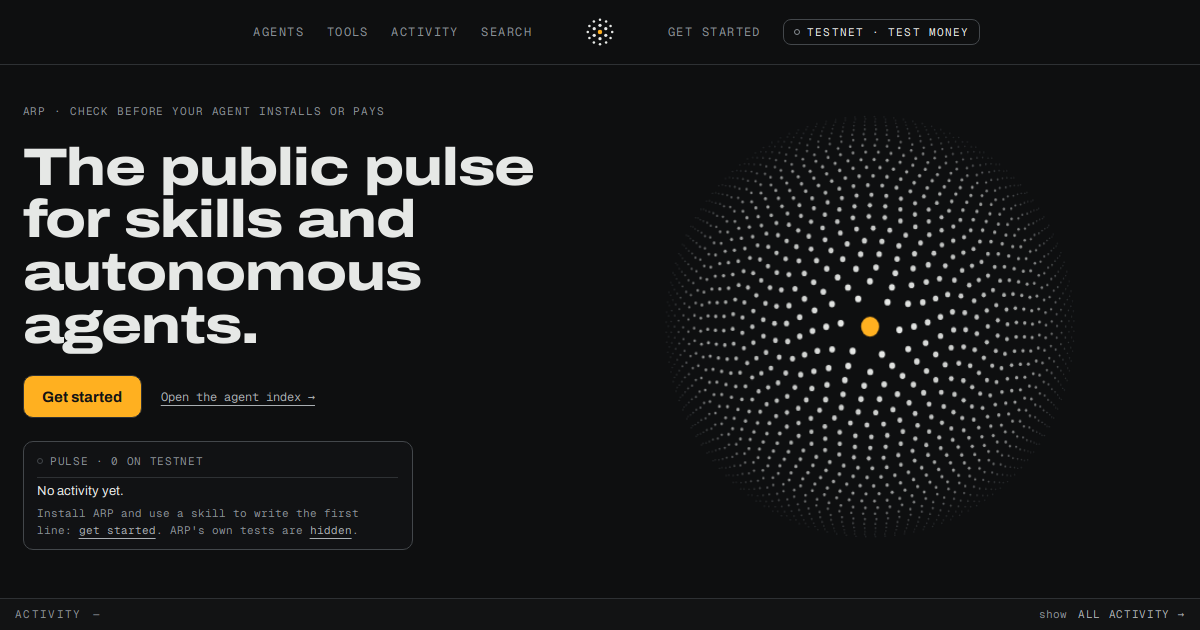
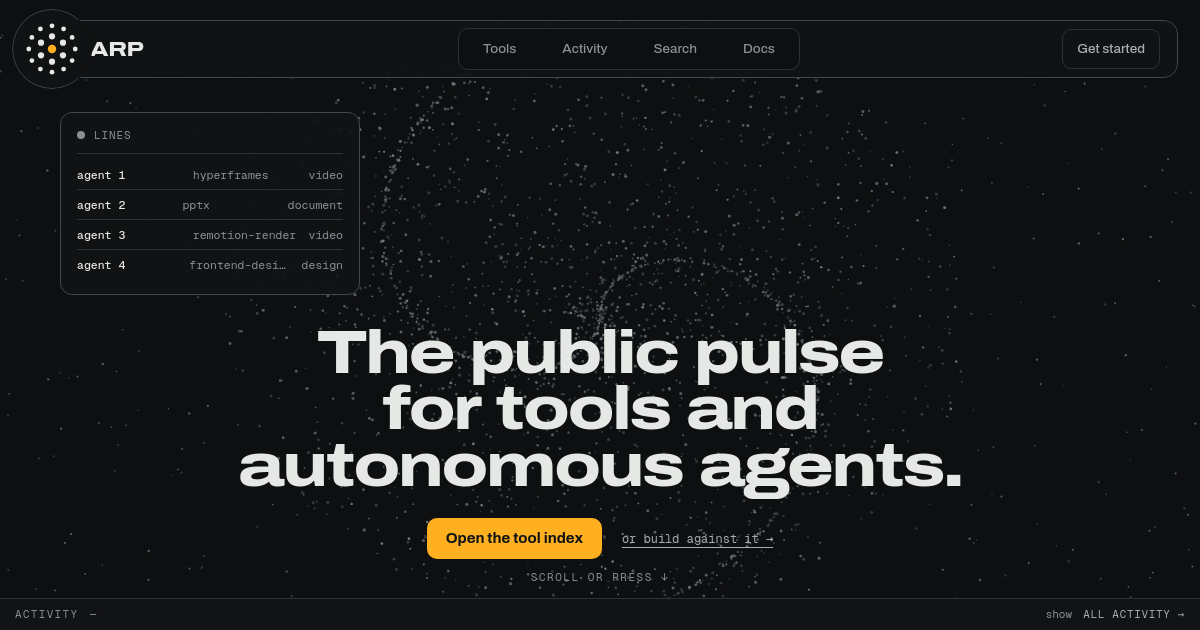
chore(task-145): the share card is the current landing, captured by a script
og.png was a screenshot of the landing of 2026-11-09, never redone, so a
shared link showed a site that no longer existed. scripts/build/og-image.ts
captures the built landing's top at 1200x630 over the DevTools Protocol,
as landing-fit.ts does, with no new dependency.

diff --git a/scripts/build/og-image.ts b/scripts/build/og-image.ts
@@ -1,0 +1,96 @@
+/** The share card, `apps/web/public/og.png`: the landing's top, 1200×630, from the built site (task 145).
+ *
+ *      cd apps/web && bun run build && bunx vite preview --port 4173 &
+ *      bun run scripts/build/og-image.ts [url]
+ *
+ *  `og:image` and `twitter:image` name this file (`apps/web/index.html`). It was a screenshot taken once on
+ *  2026-11-09 and nothing redid it, so a shared link kept showing a landing that no longer existed. This
+ *  script redoes it the same way every time.
+ *
+ *  It drives Chromium over the DevTools Protocol with `fetch` and a `WebSocket`, as
+ *  `scripts/measure/landing-fit.ts` does, so it adds no dependency. The browser is `ARP_CHROME`, else
+ *  Playwright's cached Chromium under `/root` or the user's home. Reduced motion is forced, so the
+ *  landing's first scene shows its end state rather than a frame of its animation.
+ */
+import { existsSync, writeFileSync } from 'node:fs';
+import { homedir } from 'node:os';
+import { join, resolve } from 'node:path';
+
+export const OG_WIDTH = 1200;
+export const OG_HEIGHT = 630;
+const PORT = 9334;
+const SETTLE_MS = 4000;
+
+/** The Chromium to drive: the variable when set, else the first cached one that exists. */
+export function chromePath(env: Record<string, string | undefined>, home: string, exists: (path: string) => boolean): string {
+  const given = env['ARP_CHROME'];
+  if (given !== undefined && given !== '') return given;
+  const cached = 'ms-playwright/chromium-1140/chrome-linux/chrome';
+  const found = [join('/root/.cache', cached), join(home, '.cache', cached)].find(exists);
+  if (found === undefined) throw new Error('no Chromium: set ARP_CHROME, or install one with `npx playwright install chromium`');
+  return found;
+}
+
+const sleep = (ms: number) => new Promise((done) => setTimeout(done, ms));
+
+async function send(socket: WebSocket, pending: Map<number, (value: unknown) => void>, id: number, method: string, params: Record<string, unknown> = {}) {
+  const reply = new Promise<unknown>((done) => pending.set(id, done));
+  socket.send(JSON.stringify({ id, method, params }));
+  return reply;
+}
+
+if (import.meta.main) {
+  const url = process.argv[2] ?? 'http://localhost:4173/';
+  const out = resolve(import.meta.dir, '..', '..', 'apps', 'web', 'public', 'og.png');
+  const chrome = chromePath(process.env, homedir(), existsSync);
+  const child = Bun.spawn(
+    [
+      chrome,
+      '--headless=new',
+      '--no-sandbox',
+      '--disable-gpu',
+      '--hide-scrollbars',
+      '--force-prefers-reduced-motion',
+      `--remote-debugging-port=${PORT}`,
+      `--user-data-dir=/tmp/arp-og-${process.pid}`,
+      'about:blank',
+    ],
+    { stdout: 'ignore', stderr: 'ignore' },
+  );
+  try {
+    let socketUrl: string | undefined;
+    for (let attempt = 0; attempt < 60 && socketUrl === undefined; attempt += 1) {
+      await sleep(250);
+      try {
+        const targets = (await (await fetch(`http://127.0.0.1:${PORT}/json/list`)).json()) as { type: string; webSocketDebuggerUrl: string }[]; // CDP's own listing
+        socketUrl = targets.find((target) => target.type === 'page')?.webSocketDebuggerUrl;
+      } catch {
+        // Not listening yet.
+      }
+    }
+    if (socketUrl === undefined) throw new Error(`Chromium did not expose a page on ${PORT}`);
+    const socket = new WebSocket(socketUrl);
+    await new Promise<void>((done, fail) => {
+      socket.addEventListener('open', () => done(), { once: true });
+      socket.addEventListener('error', () => fail(new Error('CDP socket failed')), { once: true });
+    });
+    const pending = new Map<number, (value: unknown) => void>();
+    socket.addEventListener('message', (event) => {
+      const frame = JSON.parse(String(event.data)) as { id?: number; result?: unknown }; // a CDP frame
+      if (frame.id !== undefined) pending.get(frame.id)?.(frame.result);
+    });
+    let id = 0;
+    const call = (method: string, params?: Record<string, unknown>) => send(socket, pending, (id += 1), method, params);
+    await call('Page.enable');
+    await call('Emulation.setDeviceMetricsOverride', { width: OG_WIDTH, height: OG_HEIGHT, deviceScaleFactor: 1, mobile: false });
+    await call('Page.navigate', { url });
+    await sleep(SETTLE_MS);
+    await call('Runtime.evaluate', { expression: 'document.fonts.ready.then(() => true)', awaitPromise: true });
+    const shot = (await call('Page.captureScreenshot', { format: 'png', clip: { x: 0, y: 0, width: OG_WIDTH, height: OG_HEIGHT, scale: 1 } })) as { data: string }; // CDP returns base64
+    writeFileSync(out, Buffer.from(shot.data, 'base64'));
+    socket.close();
+    console.log(`wrote ${out} from ${url}`);
+  } finally {
+    child.kill();
+  }
+}

diff --git a/scripts/test/og-image.test.ts b/scripts/test/og-image.test.ts
@@ -1,0 +1,19 @@
+import { expect, test } from 'bun:test';
+
+import { chromePath, OG_HEIGHT, OG_WIDTH } from '../build/og-image.ts';
+
+/** The share card's browser and size (task 145). */
+test('the card is the size og:image cards are drawn at', () => {
+  expect([OG_WIDTH, OG_HEIGHT]).toEqual([1200, 630]);
+});
+
+test('ARP_CHROME wins, then the cached Chromium under /root, then the one in the home', () => {
+  const cached = 'ms-playwright/chromium-1140/chrome-linux/chrome';
+  expect(chromePath({ ARP_CHROME: '/opt/chrome' }, '/home/u', () => false)).toBe('/opt/chrome');
+  expect(chromePath({}, '/home/u', () => true)).toBe(`/root/.cache/${cached}`);
+  expect(chromePath({ ARP_CHROME: '' }, '/home/u', (path) => path.startsWith('/home/u'))).toBe(`/home/u/.cache/${cached}`);
+});
+
+test('no browser stops with the way to get one', () => {
+  expect(() => chromePath({}, '/home/u', () => false)).toThrow('set ARP_CHROME');
+});

diff --git a/docs/tasks/145-the-share-card-is-the-current-landing.md b/docs/tasks/145-the-share-card-is-the-current-landing.md
@@ -1,0 +1,42 @@
+# Task 145 — The share card is the current landing
+
+**Status:** done 2026-11-12, branch `chore/og-image`, written by arp-97. Task 145, post-mortem `133`, no
+ADR, allocated by the orchestrator.
+**Rules:** `code.md`, `ui.md`, `claims.md`, `workflow.md`.
+**Required skills:** `arp-contributing`.
+
+## Why
+
+The user, 2026-11-12: a shared link to the site still shows the old site. `og:image` and `twitter:image`
+(`apps/web/index.html`) name `https://arp.intuition.box/og.png`; the live file is byte-identical to
+`apps/web/public/og.png`, a screenshot added once on 2026-11-09 (`c3833be0`) and never redone. It shows
+the landing of that day: another title, "TESTNET · TEST MONEY", "Pulse · 0 on testnet". Not a cache. Of two
+options (a fresh capture of the landing's top, or a fixed designed card) the user chose the capture.
+
+## What changes
+
+- `scripts/build/og-image.ts`: captures the built landing's top at 1200×630 into `apps/web/public/og.png`.
+  It drives Chromium over the DevTools Protocol with `fetch` and a `WebSocket`, as
+  `scripts/measure/landing-fit.ts` does, so no dependency is added. The browser is `ARP_CHROME`, else
+  Playwright's cached `chromium-1140` under `/root` or the home. Reduced motion is forced, so the first
+  scene is at its end state.
+- `apps/web/public/og.png`: redone from `dev` `da6b5da8`'s built site, 144,777 bytes.
+- `scripts/test/og-image.test.ts`: the size and the browser's lookup.
+
+## What the card shows
+
+The landing as it renders with no line on testnet: its title, "Open the tool index", the nav, and the
+"LINES" card with the design reference's sample rows ("agent 1 · hyperframes · video"…), which the
+landing shows while the chain has no line (ADR `0152` §6 amendment). A capture taken after real lines
+exist will show them instead.
+
+## Checked
+
+- Run against `vite preview` of `dev`'s build: the card was read back and shows the current title and nav.
+- `bun test ./scripts/test/og-image.test.ts` 3 pass; root `bun run check` (scripts typecheck, tokens,
+  contrast); web tests 1447.
+
+## After deploy
+
+Share previews cache the image: LinkedIn's Post Inspector and Facebook's Sharing Debugger refetch on
+demand; X and Discord pick it up on their own over days.
